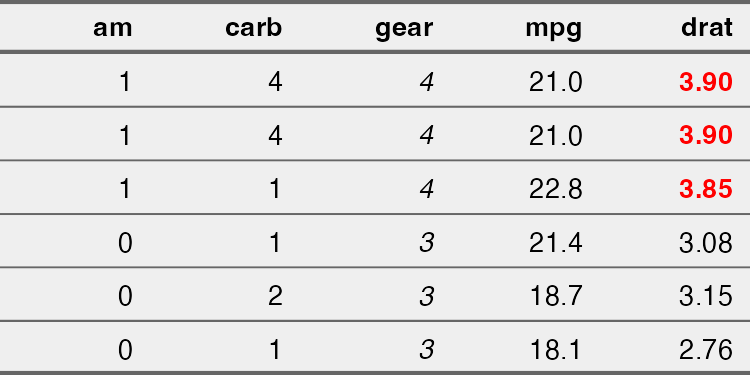
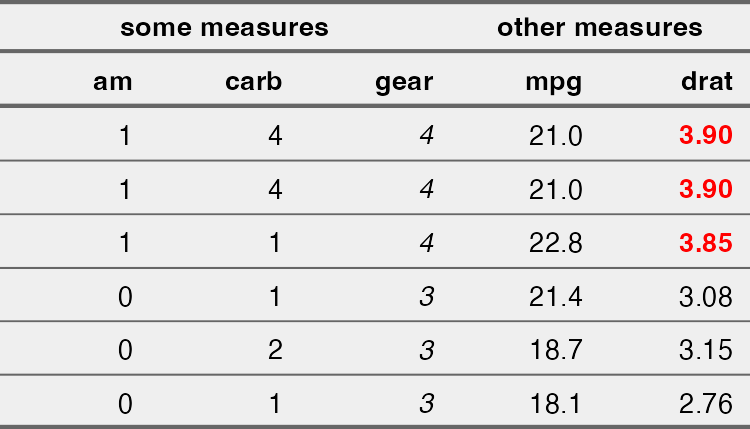
play with kable conditional formatting

diff --git a/Rscripts/table_display_flextable_demo.md b/Rscripts/table_display_flextable_demo.md
@@ -22,7 +22,7 @@ set_flextable_defaults(text.align = "center",
                        font.size = 6,
                        layout = "autofit") # text.align here doesn't seem to work
 my_flextable <- flextable(head(mtcars), 
-                  col_keys = c("am", "carb", "gear", "mpg", "drat" ))  %>% 
+                          col_keys = c("am", "carb", "gear", "mpg", "drat" ))  %>% 
     align(align = "center", part = "all") %>%
     border_inner_h(officer::fp_border(color = "lightgrey", width=0.25), part="all") %>% 
     border_inner_v(officer::fp_border(color = "lightgrey", width=0.25), part="all") %>% 
@@ -36,31 +36,28 @@ my_flextable <- flextable(head(mtcars),
     color(i=  ~ drat > 3.5, j = ~ drat , color = "red") %>% 
     ## bold every cell in the row, based on drat column value
     bold(i = ~ drat > 3.5, j = NULL, bold = TRUE) %>% 
-    # width(width=0.4) ## width of the table in inches
-    set_table_properties(layout = "autofit", width = .2) #%>% 
-    # set_caption(caption =  as_paragraph( as_chunk("Example flextable",
-    #                                               props = fp_text_default() )))
+    width(width=0.4) %>% ## width of the table in inches
+    set_table_properties(layout = "autofit", width = .2) %>% 
+    set_caption(caption =  as_paragraph( as_chunk("Example flextable",
+                                                  props = fp_text_default() )))
 
 my_flextable
 ```
 
-<img src="table_display_flextable_demo_files/figure-gfm/unnamed-chunk-1-1.png" width="750" />
+<img src="table_display_flextable_demo_files/figure-gfm/unnamed-chunk-1-1.png" width="400" />
 
 Try a save-table-as-image cheat (see
 <https://github.com/davidgohel/flextable/issues/532>)
 
 ``` r
-# knitr::opts_chunk$set(dev = "ragg_png")
-```
-
-``` r
 temp <- save_as_image(my_flextable, 
-              path=here("Rscripts/table_display_temp_tables/temp_flextable_3.png")) 
+                      path=here("Rscripts/table_display_temp_tables/temp_flextable_3.png")) 
 
 # {#id .class width=20% height=20%}
 ```
 
-![](table_display_temp_tables/temp_flextable_3.png)
+<img src="table_display_temp_tables/temp_flextable_3.png" id="id"
+class="class" style="width:50.0%;height:50.0%" />
 
 # More code examples
 
@@ -78,7 +75,7 @@ df <- airquality[ sample.int(10),]
 flextable(df)
 ```
 
-<img src="table_display_flextable_demo_files/figure-gfm/unnamed-chunk-4-1.png" width="900" />
+<img src="table_display_flextable_demo_files/figure-gfm/unnamed-chunk-3-1.png" width="900" />
 
 Fancier
 
@@ -101,7 +98,7 @@ ft <- align(ft,
 ft
 ```
 
-<img src="table_display_flextable_demo_files/figure-gfm/unnamed-chunk-5-1.png" width="900" />
+<img src="table_display_flextable_demo_files/figure-gfm/unnamed-chunk-4-1.png" width="900" />
 
 Use `set_flextable_defaults` to change the default display settings:
 
@@ -114,7 +111,7 @@ set_flextable_defaults(
 flextable(df)
 ```
 
-<img src="table_display_flextable_demo_files/figure-gfm/unnamed-chunk-6-1.png" width="900" />
+<img src="table_display_flextable_demo_files/figure-gfm/unnamed-chunk-5-1.png" width="900" />
 
 Use col_keys to select some columns
 
@@ -124,7 +121,7 @@ myft <- flextable(head(mtcars),
 myft
 ```
 
-<img src="table_display_flextable_demo_files/figure-gfm/unnamed-chunk-7-1.png" width="750" />
+<img src="table_display_flextable_demo_files/figure-gfm/unnamed-chunk-6-1.png" width="750" />
 
 Formatting certain cells/columns  
 - use j to specify certain column(s) by index - can use conditional
@@ -137,7 +134,7 @@ myft <- bold(myft, ~ drat > 3.5, ~ drat, bold = TRUE)
 myft
 ```
 
-<img src="table_display_flextable_demo_files/figure-gfm/unnamed-chunk-8-1.png" width="750" />
+<img src="table_display_flextable_demo_files/figure-gfm/unnamed-chunk-7-1.png" width="750" />
 
 Adding header rows that span \>1 column:
 
@@ -149,7 +146,7 @@ myft <- align(myft, i = 1, part = "header", align = "center")
 myft
 ```
 
-<img src="table_display_flextable_demo_files/figure-gfm/unnamed-chunk-9-1.png" width="750" />
+<img src="table_display_flextable_demo_files/figure-gfm/unnamed-chunk-8-1.png" width="750" />
 
 Aligning within the parent document:
 
@@ -158,7 +155,7 @@ myft <- set_table_properties(myft, align = "right", layout = "autofit")
 myft
 ```
 
-<img src="table_display_flextable_demo_files/figure-gfm/unnamed-chunk-10-1.png" width="750" />
+<img src="table_display_flextable_demo_files/figure-gfm/unnamed-chunk-9-1.png" width="750" />
 
 Ask to display non-existent columns if we want to separate groups of
 columns a bit - here we ask for the `col1` column. Also `empty_blanks()`
@@ -173,7 +170,7 @@ myft <- flextable(
 myft
 ```
 
-<img src="table_display_flextable_demo_files/figure-gfm/unnamed-chunk-11-1.png" width="610" />
+<img src="table_display_flextable_demo_files/figure-gfm/unnamed-chunk-10-1.png" width="610" />
 
 Cute table that includes tiny plots:
 
@@ -208,7 +205,7 @@ ft
     ## Warning in (function (img_data, width = NULL, height = NULL) : package 'magick'
     ## is required to read image files
 
-<img src="table_display_flextable_demo_files/figure-gfm/unnamed-chunk-12-1.png" width="741" />
+<img src="table_display_flextable_demo_files/figure-gfm/unnamed-chunk-11-1.png" width="741" />
 
 Exporting formatted tables: `save_as_docx`, `save_as_pptx`,
 `save_as_image`
